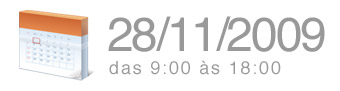
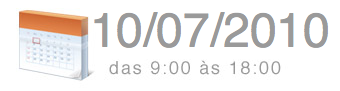
Primeiro commit da versão 2010

Changed region(s): [[0.2647, 0.1319, 0.9706, 0.5714]]

diff --git a/public/stylesheets/application.css b/public/stylesheets/application.css
@@ -93,8 +93,7 @@ ul#navigation li {
 ul#navigation li.selected {
   color: #fff;
   background: #666;
-  padding: 0;
-  padding: 10px 0px;
+  padding: 10px 5px;
 }
 
 ul#navigation li.selected a {
@@ -155,7 +154,7 @@ ul#navigation li a:hover {
   background: url('/images/ico_wave.png') left center no-repeat;
   padding: 2px 0 0 35px;
   margin-bottom: 20px;
-  
+
 }
 
 #sidebar a.twitter:hover {
@@ -196,7 +195,7 @@ ul#navigation li a:hover {
   width: 740px;
   float: left;
 }
-  
+
 #content .box {
   background: #eee;
   padding-bottom: 5px;
@@ -397,7 +396,7 @@ ul#navigation li a:hover {
 
 /* Bellow the list of tweets "<li>" */
 
-#juitterContainer .twittLI{list-style:none;margin:0;border-bottom:dashed 1px;padding:6px 3px;clear:both;background-color:#FCFFBA;} 
+#juitterContainer .twittLI{list-style:none;margin:0;border-bottom:dashed 1px;padding:6px 3px;clear:both;background-color:#FCFFBA;}
 #juitterContainer .twittList SPAN.time{color:#777;font-size:10px}
 #juitterContainer .twittList A{color:#3D3BEF;} /*Links inside the tweets list */
 

diff --git a/config/routes.rb b/config/routes.rb
@@ -3,7 +3,7 @@ ActionController::Routing::Routes.draw do |map|
     admin.resources :speakers,
       :collection => { :report => :get }
     admin.resources :agendas
-    admin.resources :attendees, 
+    admin.resources :attendees,
       :member => { :resend => :get,
                    :completed => :put,
                    :pending => :put,
@@ -15,14 +15,14 @@ ActionController::Routing::Routes.draw do |map|
                     },
       :collection => { :report => :get }
   end
-  
+
   map.resources :user_sessions, :as => "admin/acesso"
-  
-  map.resources :attendees, :as => "inscricao", :only => [:create]
-  map.register '/inscricao', :controller => "attendees", :action => "new"
-  map.payment  '/inscricao/pagamento/:token', :controller => "attendees", :action => "payment"
-  map.pagseguro_confirmation "/inscricao/pagseguro/confirmacao", :controller => "attendees", :action => "pagseguro"
-  
+
+  # map.resources :attendees, :as => "inscricao", :only => [:create]
+  # map.register '/inscricao', :controller => "attendees", :action => "new"
+  # map.payment  '/inscricao/pagamento/:token', :controller => "attendees", :action => "payment"
+  # map.pagseguro_confirmation "/inscricao/pagseguro/confirmacao", :controller => "attendees", :action => "pagseguro"
+
   map.with_options :controller => 'user_sessions' do |user_sessions|
     user_sessions.login         "/login",        :action => "new"
     user_sessions.logout        "/logout",       :action => "destroy"
@@ -30,13 +30,14 @@ ActionController::Routing::Routes.draw do |map|
 
   map.with_options :controller => 'pages' do |pages|
     pages.home       "/",                :action => "index"
+    pages.send_presentation "/quero-palestrar", :action => 'send_presentation'
     pages.contact    "/contato",         :action => "contact"
-    pages.banners    "/divulgar",        :action => "banners"
-    pages.speakers   "/palestrantes",    :action => "speakers"
-    pages.agenda     "/programacao",     :action => "agenda"
-    pages.feedback   "/feedback",        :action => "feedback"
+    # pages.banners    "/divulgar",        :action => "banners"
+    # pages.speakers   "/palestrantes",    :action => "speakers"
+    # pages.agenda     "/programacao",     :action => "agenda"
+    # pages.feedback   "/feedback",        :action => "feedback"
   end
-  
+
   map.admin "/admin", :controller => "Admin::Admin", :action => "index"
 end
 

diff --git a/app/controllers/pages_controller.rb b/app/controllers/pages_controller.rb
@@ -1,20 +1,20 @@
 require "ostruct"
 
 class PagesController < ApplicationController
-  caches_page :index, :banners, :speakers, :agenda, :feedback
-  
+  caches_page :index, :send_presentation
+
   def contact
     @contact = OpenStruct.new
-    
+
     load_contact_with_params
-    
+
     if request.post?
       if contact_valid?(@contact)
         spawn do
           logger.info "Trying send email from #{@contact.inspect}"
           Contact.deliver_from_site(@contact, params[:contact][:receive_a_copy] == "1")
         end
-        
+
         flash[:notice] = "Sua mensagem foi encaminhada."
         @contact.subject = ""
         @contact.description = ""
@@ -23,15 +23,15 @@ class PagesController < ApplicationController
       end
     end
   end
-  
+
   def speakers
     @speakers = Speaker.all :order => "name"
   end
-  
+
   def agenda
     @agenda = Agenda.all :order => "start_time"
   end
-  
+
   private
     def contact_valid?(contact)
       contact.errors = []
@@ -41,32 +41,32 @@ class PagesController < ApplicationController
       contact.errors << :description unless valid_contact_description?(contact)
       contact.errors.size == 0
     end
-    
+
     def valid_contact_name?(contact)
       return false unless contact
       return false if contact.name.blank?
       true
     end
-    
+
     def valid_contact_email?(contact)
       return false unless contact
       return false if contact.email.blank?
       return false unless User::EMAIL_REGEX.match(contact.email)
       true
     end
-    
+
     def valid_contact_subject?(contact)
       return false unless contact
       return false if contact.subject.blank?
       true
     end
-      
+
     def valid_contact_description?(contact)
       return false unless contact
       return false if contact.description.blank?
       true
     end
-    
+
     def load_contact_with_params
       if params[:contact]
         contact = params[:contact]
